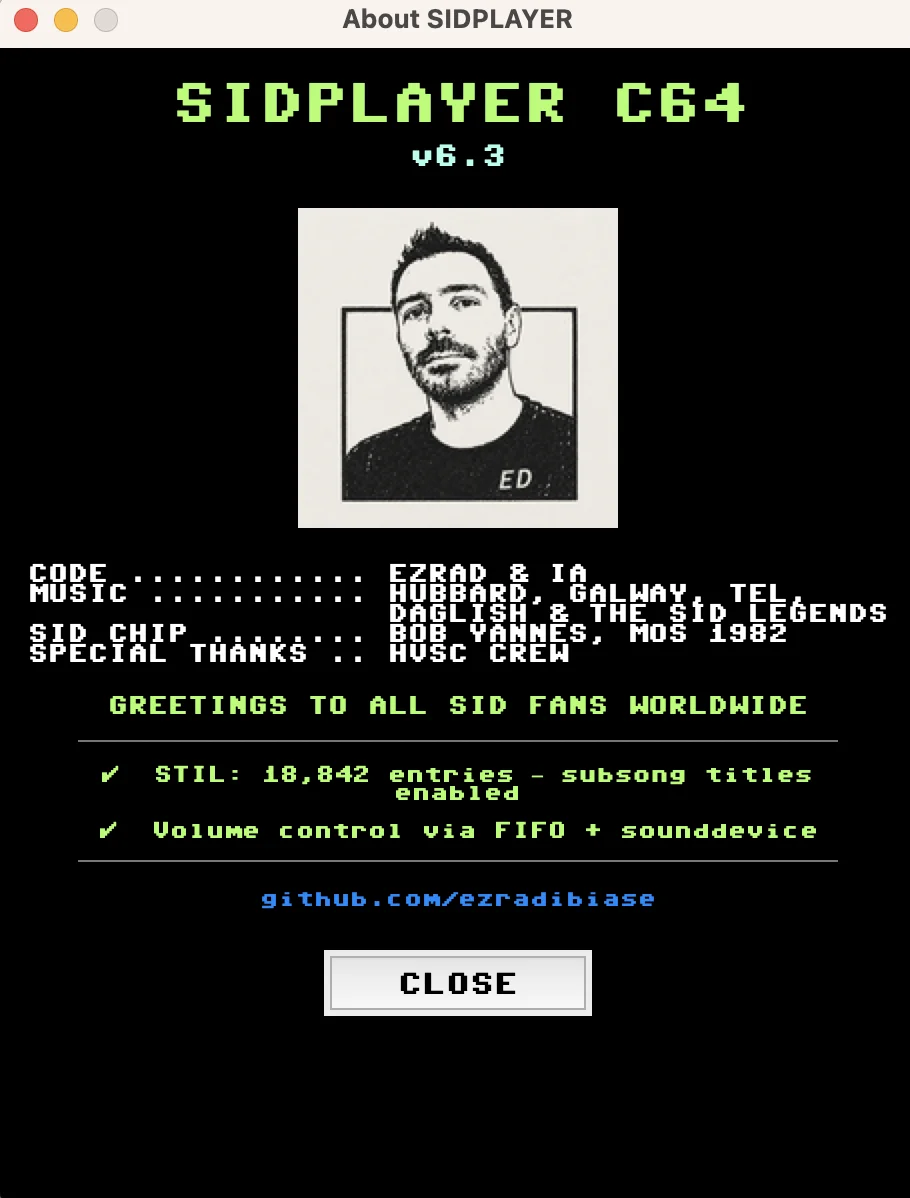
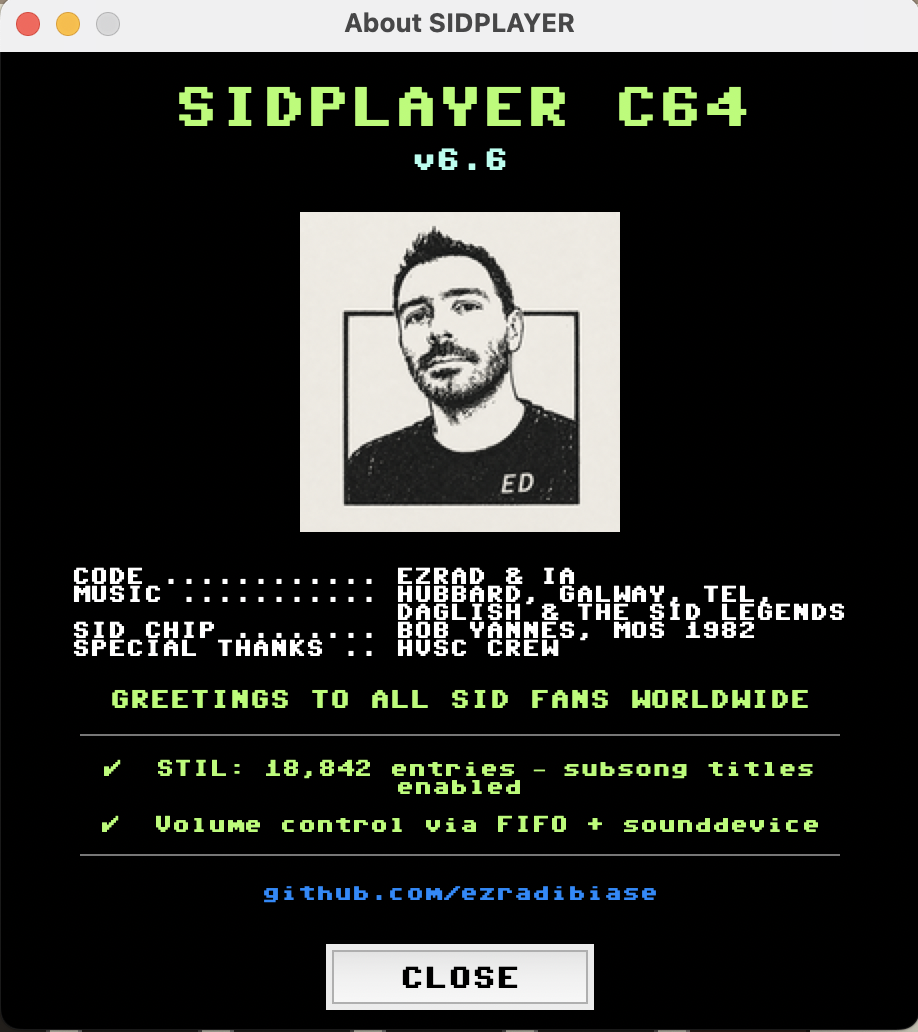
README: Windows supportato, download delle release, SUB, OUT e screenshot aggiornati
- Windows non più beta (resta beta solo Linux); Quick start parte dalle
  app pronte nelle Releases, poi il sorgente
- Documentati SUB, la selezione dell'output audio, le foto dei musicisti
  (gb64_photos_path) e l'elenco esatto delle posizioni cercate per STIL
- Rimossi F-media e Siri (non verificati/non funzionanti), "easter egg" e
  la frase sul chip dal capitolo "Perché SIDPlayer"
- Link corretto per il font C64 Pro Mono (style64.org)
- Screenshot di boot e ABOUT aggiornati (v6.6), aggiunto quello di OUT

Changed region(s): [[0.0, 0.0, 1.0, 0.8682], [0.0, 0.8992, 1.0, 1.0], [0.0923, 0.7752, 0.1231, 0.8062]]

diff --git a/README.md b/README.md
@@ -42,6 +42,20 @@ e integrazione con Touch Bar e Control Center su macOS.
 
 ## Quick start
 
+### App pronta (Windows e macOS)
+
+Scarica l'ultima versione dalla pagina [Releases](https://github.com/ezradibiase/sid_player/releases/latest):
+
+- **Windows** — `SIDPlayer.exe`, doppio clic. `sidplayfp` è già incluso: nessuna installazione richiesta.
+- **macOS** — `SIDPlayer-macOS-vX.Y.zip`: decomprimi e trascina l'app in Applicazioni. È una build Intel
+  (su Apple Silicon gira tramite Rosetta) e non è notarizzata: al primo avvio usa tasto destro → **Apri**.
+  Richiede `sidplayfp` installato (`brew install sidplayfp` oppure `sudo port install sidplayfp`). Le app aperte
+  dal Finder hanno un `PATH` ridotto, quindi se non lo trova imposta il percorso completo in `sidplayer.cfg`
+  (`sidplay_cmd`, vedi [Configurazione](#configurazione)), per esempio `/opt/local/bin/sidplayfp` con MacPorts,
+  `/opt/homebrew/bin/sidplayfp` con Homebrew su Apple Silicon o `/usr/local/bin/sidplayfp` su Intel.
+
+### Da sorgente
+
 ```bash
 # 1. Il motore audio
 brew install sidplayfp                # macOS
@@ -58,14 +72,12 @@ python3 sidplayer.py
 
 Clicca **EJECT**, scegli un file `.sid` (o una playlist), premi **PLAY**. Fine.
 
-> ⚠ SIDPlayer è **testato e supportato pienamente su macOS**. Il supporto per Linux e
-> Windows è in **beta** — il codice ha fallback per quelle piattaforme, ma non è mai stato
-> testato in profondità. Segnala problemi su [GitHub Issues](https://github.com/ezradibiase/sid_player/issues).
+> SIDPlayer è **sviluppato e testato su macOS e Windows**. Il supporto per **Linux** è ancora
+> in **beta**: il codice ha i fallback necessari, ma non è mai stato testato in profondità.
+> Segnala problemi su [GitHub Issues](https://github.com/ezradibiase/sid_player/issues).
 
-Su **Windows**: se usi l'eseguibile `SIDPlayer.exe` compilato dalla CI (workflow
-"Build Windows" su GitHub Actions), `sidplayfp` è già incluso — nessuna installazione
-richiesta. Se invece esegui da sorgente (`python sidplayer.py`), sidplayfp non è
-disponibile come pacchetto Windows standalone: va installato tramite
+Su **Windows**, eseguendo da sorgente (`python sidplayer.py`) invece di usare `SIDPlayer.exe`,
+`sidplayfp` non è disponibile come pacchetto Windows standalone: va installato tramite
 [MSYS2](https://www.msys2.org/) (shell **MSYS2 MinGW64**, non quella base) con
 `pacman -S mingw-w64-x86_64-sidplayfp`, poi imposta il percorso completo in
 `sidplayer.cfg` (vedi [Configurazione](#configurazione)) oppure aggiungi
@@ -73,23 +85,20 @@ disponibile come pacchetto Windows standalone: va installato tramite
 Su **macOS** puoi anche rendere eseguibile `launchers/start_sidplayer.command` e
 aprirlo dal Finder.
 
-Il font [C64 Pro Mono](https://github.com/mborgbrant/c64-pro-mono) è opzionale ma
+Il font [C64 Pro Mono](https://style64.org/c64-truetype) è opzionale ma
 consigliato: senza, viene usato Courier come fallback.
 
 ---
 
 ## Perché SIDPlayer
 
-Il SID (MOS 6581/8580) è il chip audio del Commodore 64, e la
-[High Voltage SID Collection](https://www.hvsc.c64.org/) ne conserva oltre 50.000 brani.
-Per ascoltarli esistono già ottimi strumenti — emulatori, player da riga di comando,
-servizi online come DeepSID.
-
-Questo è semplicemente il player che ho costruito per il mio uso personale: riproduce
-i `.sid` con `sidplayfp`, mostra la cover del gioco e i titoli dei subsong dal database
-STIL, si integra con i controlli multimediali di sistema, e ha la faccia del
-registratore a cassette con cui quei brani si caricavano nel 1985 — perché mi ci
-sono affezionato e volevo un player che gli somigliasse.
+Per ascoltare i file SID esistono già ottimi strumenti: emulatori, player da riga di
+comando, servizi online come DeepSID. Questo è semplicemente il player che ho costruito
+per il mio uso personale: riproduce i `.sid` con `sidplayfp`, mostra la cover del gioco
+e i titoli dei subsong dal database STIL, si integra con i controlli multimediali di
+sistema e ha la faccia del registratore a cassette con cui quei videogiochi si
+caricavano negli anni '80, perché mi ci sono affezionato e volevo un player che gli
+somigliasse.
 
 ---
 
@@ -100,6 +109,7 @@ sono affezionato e volevo un player che gli somigliasse.
 - Navigazione **subsong** (◄ / ►) con lettura del default song dall'header SID
 - Playlist personalizzate e in **formato standard HVSC** (anche liste "ranked" come le Top100)
 - **Shuffle** attivabile/disattivabile a runtime (bottone SHUF)
+- **Tutte le subsong in sequenza** con il bottone SUB (disattivato di default)
 - Controllo volume in tempo reale, mute, pausa/ripresa
 - Selezione del device di output audio, incluse casse Bluetooth
 
@@ -108,12 +118,11 @@ sono affezionato e volevo un player che gli somigliasse.
   metallico, decorazione AUTO STOP, contatore a nastro a 3 cifre animato
 - Cover del gioco da **IGDB** e **RAWG** (opzionale, con API key)
 - Titoli dei subsong dal database **STIL**
-- Boot screen easter egg in stile BASIC V2 all'avvio 😉
+- Schermata di boot in stile C64 BASIC V2 all'avvio, che resta finché non carichi un SID o una playlist
 
 **Integrazione macOS**
 - **Control Center**: titolo e artista nel widget musica
 - **Touch Bar**: play/pause, traccia precedente/successiva
-- **Tasti F-media** (F7/F8/F9) e **Siri**
 
 ---
 
@@ -155,6 +164,10 @@ hvsc_root =
 gb64_boxart_path =
 gb64_mdb_path =
 
+# Cartella con le foto dei musicisti GB64 (opzionale): mostra una piccola foto
+# accanto al nome dell'autore (vedi sezione "Copertine da GB64" più sotto).
+gb64_photos_path =
+
 # Percorso STIL.txt (lascia vuoto per ricerca automatica)
 stil_path =
 
@@ -175,7 +188,7 @@ shuffle = false
 
 [window]
 width = 640
-height = 580
+height = 600
 resizable = false
 ```
 
@@ -199,6 +212,12 @@ copertine, con lo stesso approccio di [DeepSID](https://deepsid.chordian.net/): 
 tramite il database del gioco, invece di indovinare dal nome file. Nessuna chiamata di rete
 quando la copertina è disponibile in locale, e niente più copertine sbagliate per giochi con
 nomi simili.
+
+Con la stessa collezione puoi mostrare anche la **foto del musicista** accanto al nome
+dell'autore: imposta `gb64_photos_path` sulla cartella delle foto, con i file nominati come
+l'autore e gli spazi sostituiti da underscore (per esempio `Rob_Hubbard`, con un'estensione
+immagine comune). Se l'header elenca più autori viene provato il primo. Se per quell'autore
+non c'è una foto, non viene mostrato nulla.
 
 **Cosa serve, in breve:**
 
@@ -320,9 +339,10 @@ la riproduzione:
 | Pulsante | Funzione |
 |----------|----------|
 | **OUT** | Seleziona il device di output audio |
-| **HELP** | Spiega le funzioni di EJECT, PLAY e RECORD |
+| **HELP** | Spiega le funzioni di EJECT, PLAY, RECORD, SHUF e SUB |
 | **ABOUT** | Informazioni sull'applicazione |
 | **SHUF** | Attiva/disattiva l'ordine casuale della playlist (verde = attivo, disattivato di default) |
+| **SUB** | Riproduce in sequenza tutte le subsong del brano corrente prima di passare al successivo (verde = attivo, disattivato di default) |
 | **VOL** | Slider volume (0–100%) |
 | **M** | Mute / unmute |
 
@@ -341,7 +361,7 @@ la riproduzione:
 | **STOP ■** | Ferma la riproduzione |
 | **EJECT ▲** | Carica file SID o una playlist (stessa scelta prima su LOAD) |
 
-Il pulsante **HELP** nella riga utility spiega RECORD/PLAY/EJECT direttamente nell'app.
+Il pulsante **HELP** nella riga utility spiega RECORD/PLAY/EJECT e i toggle SHUF/SUB direttamente nell'app.
 
 ### Navigazione subsong
 
@@ -358,14 +378,20 @@ ha più subsong, appare una riga con:
 Il subsong viene ricaricato istantaneamente senza perdere la posizione in playlist.
 La riga scompare quando si ferma la riproduzione o se il file ha un solo subsong.
 
-Per chiudere l'applicazione usa la **✕** del window manager (la finestra salva lo stato
-correttamente).
+Per chiudere l'applicazione usa la **✕** della finestra: ferma la riproduzione e libera
+i controlli multimediali di sistema.
 
 ### Selezione output audio
 
-Il pulsante **OUT** apre un popup con tutti i device audio disponibili nel sistema.
-Permette di separare l'audio del player dall'audio
-di sistema. Il device selezionato viene usato dalla traccia successiva in poi.
+Il pulsante **OUT** apre un popup con i device audio di uscita disponibili nel sistema.
+
+<img src="docs/output.webp" alt="Finestra Audio Output con l'elenco dei device: Default di sistema, Built-in Output, Microsoft Teams Audio, e i pulsanti OK e CANCEL" width="420">
+
+- **[Default di sistema]**, selezionato all'avvio, segue l'uscita scelta nelle impostazioni audio del sistema operativo.
+- Scegli un altro device e premi **OK** per mandare l'audio del player solo lì (cuffie, casse Bluetooth, ecc.),
+  separandolo dall'audio di sistema. **CANCEL** chiude senza cambiare nulla.
+- La scelta vale dalla traccia successiva: il brano in corso continua sul device di prima.
+- Non viene salvata: al riavvio si torna al default di sistema.
 
 ---
 
@@ -375,8 +401,6 @@ Su macOS, SIDPlayer si integra con i controlli multimediali del sistema operativ
 
 - **Control Center** — mostra titolo e artista del brano in corso nel widget musica
 - **Touch Bar** — controlli play/pause, traccia precedente e successiva
-- **Tasti F-media** (F7 / F8 / F9) — controllano la riproduzione
-- **Siri** — può mettere in pausa o riprendere la riproduzione
 
 L'integrazione usa `MPNowPlayingInfoCenter` e `MPRemoteCommandCenter` del framework
 Apple **MediaPlayer**, accessibile tramite PyObjC (già incluso in macOS — nessuna
@@ -397,6 +421,9 @@ pyinstaller SIDPlayer.spec
 ```
 
 L'app viene creata in `scripts/dist/SIDPlayer.app`.
+
+Su **Windows** l'eseguibile `SIDPlayer.exe` (con `sidplayfp` incluso) viene compilato dalla CI di GitHub Actions
+(workflow "Build Windows") e pubblicato nelle [Releases](https://github.com/ezradibiase/sid_player/releases) a ogni tag `v*`.
 
 ---
 
@@ -475,11 +502,16 @@ python3 sidplayer.py -d
 
 STIL contiene titoli e note sui subsong dell'HVSC. Per usarlo:
 1. Scarica la HVSC da https://www.hvsc.c64.org/
-2. Imposta il percorso di `STIL.txt` in `sidplayer.cfg`, oppure mettilo in una delle
-   posizioni cercate automaticamente:
+2. Imposta il percorso di `STIL.txt` in `sidplayer.cfg` (`stil_path`), oppure lascia `stil_path`
+   vuoto e mettilo in una delle posizioni cercate automaticamente:
+   - `STIL.txt` nella cartella dell'app
    - `./STIL.txt`
    - `~/Music/HVSC/STIL.txt`
    - `~/HVSC/STIL.txt`
+   - `/usr/share/HVSC/STIL.txt`
+
+   La ricerca automatica parte solo se `stil_path` è vuoto: se contiene un percorso che non
+   esiste, i titoli STIL non vengono caricati.
 
 ---
 
@@ -488,7 +520,7 @@ STIL contiene titoli e note sui subsong dell'HVSC. Per usarlo:
 - [ ] **Drag & drop** di file e playlist sulla finestra ([#3](https://github.com/ezradibiase/sid_player/issues/3))
 - [ ] **Browser HVSC integrato** per esplorare la collezione dal player ([#4](https://github.com/ezradibiase/sid_player/issues/4))
 - [ ] **Finestra Preferenze** (⌘,) per configurare senza editare file ([#9](https://github.com/ezradibiase/sid_player/issues/9))
-- [ ] Test e supporto completo per **Linux e Windows** ([#7](https://github.com/ezradibiase/sid_player/issues/7))
+- [ ] Test e supporto completo per **Linux** ([#7](https://github.com/ezradibiase/sid_player/issues/7))
 
 La cronologia completa delle versioni è nel [CHANGELOG](CHANGELOG.md).
 
@@ -502,7 +534,7 @@ Issue e pull request sono benvenute — il flusso è quello classico:
 2. Crea un branch (`feature/nome-feature` o `fix/nome-fix`)
 3. Apri una **PR** verso `main`
 
-Se usi SIDPlayer su **Linux o Windows**, ogni segnalazione è preziosa:
+Se usi SIDPlayer su **Linux**, ogni segnalazione è preziosa:
 il supporto è in beta proprio perché mancano test sul campo.
 
 ---
@@ -516,7 +548,7 @@ il supporto è in beta proprio perché mancano test sul campo.
 | **Chip SID** | Bob Yannes, MOS Technology, 1982 |
 | **Collezione** | [HVSC — High Voltage SID Collection](https://www.hvsc.c64.org/) |
 | **Motore audio** | [sidplayfp](https://github.com/libsidplayfp/sidplayfp) |
-| **Font** | [C64 Pro Mono](https://github.com/mborgbrant/c64-pro-mono), [Michroma](https://fonts.google.com/specimen/Michroma) (badge trasporto) |
+| **Font** | [C64 Pro Mono](https://style64.org/c64-truetype), [Michroma](https://fonts.google.com/specimen/Michroma) (badge trasporto) |
 
 Altri link: [IGDB API](https://api-docs.igdb.com/) · [RAWG.io API](https://rawg.io/apidocs)
 
